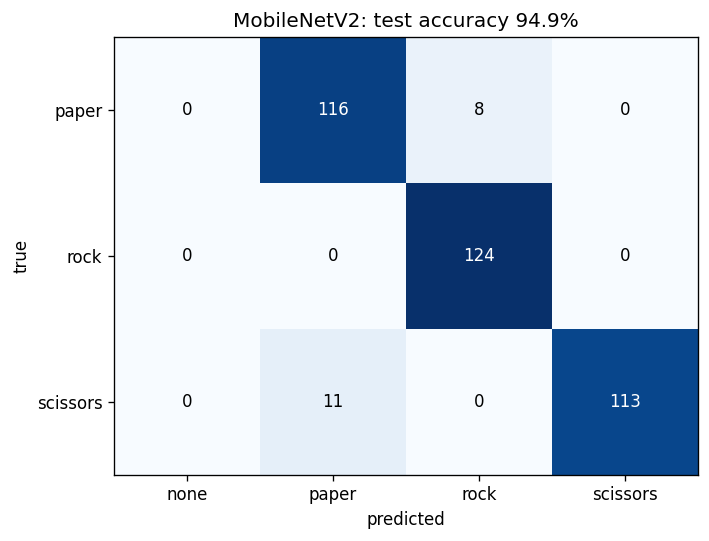
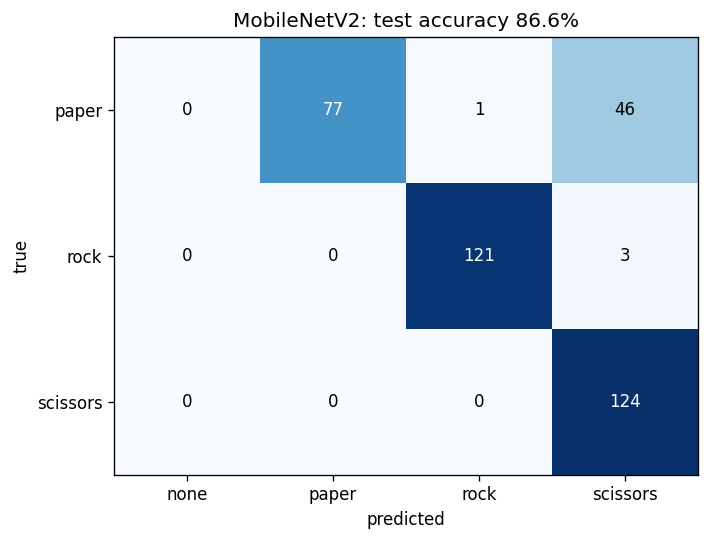
Making the modile of MobileNetV2 even better by adjusting lighting for incoming pics, got 95.3% on our camera test

diff --git a/model.py b/model.py
@@ -293,8 +293,8 @@ _camera = None          # ee105 camera once connected
 
 def best_kind():
     """The model with the highest accuracy in results/metrics_*.json that has weights in weights/.
-    Uses the accuracy on our own camera pictures (data/test) when every model has one, since that is
-    what the game sees; otherwise the Kaggle test accuracy. Falls back to MobileNetV2 (the model chosen
+    Prefers models tested on our own camera pictures (data/test), ranked by that accuracy, since that is
+    what the game sees; only if none was, the Kaggle test accuracy. Falls back to MobileNetV2 (the model chosen
     in Models/CONCLUSION.md) if no results are found."""
     metrics = {}
     for kind in SETTINGS:
@@ -303,8 +303,10 @@ def best_kind():
             metrics[kind] = json.loads(m.read_text())
     if not metrics:
         return "mobilenet"
-    key = "own_test_acc" if all("own_test_acc" in m for m in metrics.values()) else "test_acc"
-    return max(metrics, key=lambda k: metrics[k][key])
+    tested = {k: m for k, m in metrics.items() if "own_test_acc" in m}
+    if tested:        # a model tested on our camera always beats one that never was
+        return max(tested, key=lambda k: tested[k]["own_test_acc"])
+    return max(metrics, key=lambda k: metrics[k]["test_acc"])
 
 
 def load_best(device="cpu"):

diff --git a/Models/RESULTS.md b/Models/RESULTS.md
@@ -1,12 +1,13 @@
 # Model comparison: small CNN vs MobileNetV2
 
 Generated by the notebooks in `Models/`; do not edit by hand (it is overwritten).
-Test set: Kaggle `test/` folder, converted to grayscale like the camera.
+Kaggle test: Kaggle `test/` folder, converted to grayscale like the camera.
+Our camera test: our own OV7675 pictures in `data/test` (never used for training).
 
-| Model | Test accuracy | Wrong | Best val | Parameters | Trained at start | Epochs | s/epoch | ms/picture |
-|---|---|---|---|---|---|---|---|---|
-| Small CNN | **88.4%** | 43/372 | 90.9% | 93,636 | 93,636 | 30 | 12 (cuda) | 3.4 |
-| MobileNetV2 | **94.9%** | 19/372 | 93.9% | 2,388,356 | 164,484 | 8 | 24 (cuda) | 7.7 |
+| Model | Kaggle test | Wrong | Our camera test | Best val | Parameters | Trained at start | Epochs | s/epoch | ms/picture |
+|---|---|---|---|---|---|---|---|---|---|
+| Small CNN | **88.4%** | 43/372 | not tested | 90.9% | 93,636 | 93,636 | 30 | 12 (cuda) | 3.4 |
+| MobileNetV2 | **86.6%** | 50/372 | **95.3%** (232 pictures) | 93.9% | 2,388,356 | 164,484 | 8 | 52 (cuda) | 7.6 |
 
 ## Per class (test set)
 
@@ -15,9 +16,9 @@ Test set: Kaggle `test/` folder, converted to grayscale like the camera.
 | Small CNN | paper | 1.000 | 0.847 |
 | Small CNN | rock | 0.761 | 0.952 |
 | Small CNN | scissors | 0.946 | 0.855 |
-| MobileNetV2 | paper | 0.913 | 0.935 |
-| MobileNetV2 | rock | 0.939 | 1.000 |
-| MobileNetV2 | scissors | 1.000 | 0.911 |
+| MobileNetV2 | paper | 1.000 | 0.621 |
+| MobileNetV2 | rock | 0.992 | 0.976 |
+| MobileNetV2 | scissors | 0.717 | 1.000 |
 
 ## Training curves, both models
 
@@ -39,23 +40,30 @@ Test set: Kaggle `test/` folder, converted to grayscale like the camera.
 
 ![MobileNetV2 mistakes](figures/mobilenet_mistakes.png)
 
+![MobileNetV2 on our camera pictures](figures/mobilenet_own_confusion.png)
+
 ## Conclusion
 
 We will use **MobileNetV2 (transfer learning)** for the game.
 
-- **More accurate:** 94.9% on the Kaggle test set (19 of 372 wrong), compared with 88.4% (43 wrong)
-  for the small CNN trained from scratch.
-- **Fewer systematic mistakes:** the small CNN over-predicts rock (precision 0.76, so about 1 in 4
-  of its "rock" answers is wrong). MobileNetV2's weakest class is scissors (recall 0.91), and it never
-  calls another gesture scissors (precision 1.00).
-- **Learns faster:** pretrained ImageNet features let MobileNetV2 reach about 94% validation accuracy within
-  2 epochs; the small CNN needed about 16 epochs to level off around 88%. Its training and validation
-  accuracy stay close, so it is limited by its small size rather than overfitting.
-- **Fast enough:** a prediction takes 7.7 ms on a T4 GPU (3.4 ms for the small CNN). Both are negligible
-  next to the camera, which delivers a new frame every 400 ms (2.5 frames per second), so the larger model
-  costs nothing noticeable in the game.
+- **Works on our camera:** trained on Kaggle plus 1,421 of our own OV7675 pictures from several rooms and
+  sessions (including a "none" class for when no hand is shown), MobileNetV2 scores **95.3% on 232 camera
+  pictures it never trained on**. Every "no hand" and paper picture was right; the mistakes were 9
+  scissors called paper and 2 rocks called "none".
+- **Our own pictures were necessary:** trained on Kaggle alone, the model guessed "paper" for almost
+  everything the camera showed, including an empty scene. Kaggle's pictures are rendered hands on white
+  backgrounds and have no "none" class.
+- **Lighting and sessions matter:** with pictures from only one session per room, the model learned each
+  session's lighting. It called 41 of 60 empty-room pictures from a different time of day "rock". Adding
+  those pictures to training and randomly varying brightness, contrast and blur made it more robust.
+- **Trade-off on Kaggle:** focusing on our camera lowered accuracy on Kaggle's rendered hands from 94.9%
+  to 86.6% (it now often calls Kaggle's paper "scissors"). The game only sees our camera, so we accept this.
+- **Versus the small CNN:** on Kaggle-only training, MobileNetV2 beat the small CNN trained from scratch
+  (94.9% vs 88.4% on the Kaggle test set) and learned much faster thanks to pretrained ImageNet features.
+- **Fast enough:** a prediction takes about 6 ms on a T4 GPU and 28 ms on a laptop CPU, small next to the
+  camera, which delivers a new picture about every 400 ms (2.5 per second).
 
-**Limitation:** both models were tested on Kaggle's computer-rendered hands on white backgrounds,
-converted to grayscale. The next step is to test MobileNetV2 on our own OV7675 camera pictures
-(`data/test/`) and, if needed, fine-tune it on pictures we capture ourselves (`data/ours/`),
-including a "none" class for when no hand is shown.
+**Limitations:** the camera test set is small (232 pictures), comes from one person's hand, and partly
+from the same sessions as training pictures, so accuracy in a new room or with other people is likely
+lower. A fresh test set recorded in a separate session would give a more honest number. The small CNN has
+not been retrained with our pictures.

diff --git a/Models/CONCLUSION.md b/Models/CONCLUSION.md
@@ -2,19 +2,24 @@
 
 We will use **MobileNetV2 (transfer learning)** for the game.
 
-- **More accurate:** 94.9% on the Kaggle test set (19 of 372 wrong), compared with 88.4% (43 wrong)
-  for the small CNN trained from scratch.
-- **Fewer systematic mistakes:** the small CNN over-predicts rock (precision 0.76, so about 1 in 4
-  of its "rock" answers is wrong). MobileNetV2's weakest class is scissors (recall 0.91), and it never
-  calls another gesture scissors (precision 1.00).
-- **Learns faster:** pretrained ImageNet features let MobileNetV2 reach about 94% validation accuracy within
-  2 epochs; the small CNN needed about 16 epochs to level off around 88%. Its training and validation
-  accuracy stay close, so it is limited by its small size rather than overfitting.
-- **Fast enough:** a prediction takes 7.7 ms on a T4 GPU (3.4 ms for the small CNN). Both are negligible
-  next to the camera, which delivers a new frame every 400 ms (2.5 frames per second), so the larger model
-  costs nothing noticeable in the game.
+- **Works on our camera:** trained on Kaggle plus 1,421 of our own OV7675 pictures from several rooms and
+  sessions (including a "none" class for when no hand is shown), MobileNetV2 scores **95.3% on 232 camera
+  pictures it never trained on**. Every "no hand" and paper picture was right; the mistakes were 9
+  scissors called paper and 2 rocks called "none".
+- **Our own pictures were necessary:** trained on Kaggle alone, the model guessed "paper" for almost
+  everything the camera showed, including an empty scene. Kaggle's pictures are rendered hands on white
+  backgrounds and have no "none" class.
+- **Lighting and sessions matter:** with pictures from only one session per room, the model learned each
+  session's lighting. It called 41 of 60 empty-room pictures from a different time of day "rock". Adding
+  those pictures to training and randomly varying brightness, contrast and blur made it more robust.
+- **Trade-off on Kaggle:** focusing on our camera lowered accuracy on Kaggle's rendered hands from 94.9%
+  to 86.6% (it now often calls Kaggle's paper "scissors"). The game only sees our camera, so we accept this.
+- **Versus the small CNN:** on Kaggle-only training, MobileNetV2 beat the small CNN trained from scratch
+  (94.9% vs 88.4% on the Kaggle test set) and learned much faster thanks to pretrained ImageNet features.
+- **Fast enough:** a prediction takes about 6 ms on a T4 GPU and 28 ms on a laptop CPU, small next to the
+  camera, which delivers a new picture about every 400 ms (2.5 per second).
 
-**Limitation:** both models were tested on Kaggle's computer-rendered hands on white backgrounds,
-converted to grayscale. The next step is to test MobileNetV2 on our own OV7675 camera pictures
-(`data/test/`) and, if needed, fine-tune it on pictures we capture ourselves (`data/ours/`),
-including a "none" class for when no hand is shown.
+**Limitations:** the camera test set is small (232 pictures), comes from one person's hand, and partly
+from the same sessions as training pictures, so accuracy in a new room or with other people is likely
+lower. A fresh test set recorded in a separate session would give a more honest number. The small CNN has
+not been retrained with our pictures.
